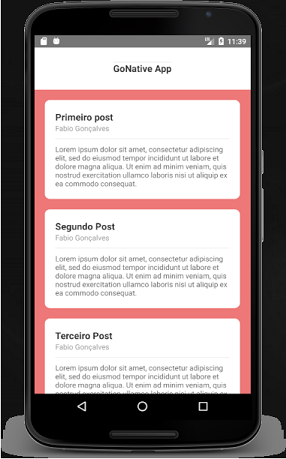
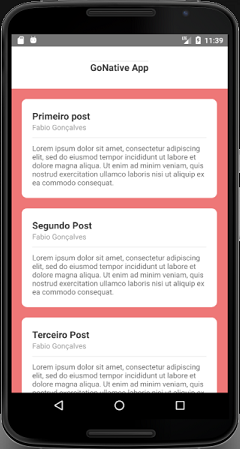
Acertos e readme.me

diff --git a/readme.md b/readme.md
@@ -1,0 +1,8 @@
+# Desafio Módulo 01 - GoNative
+
+![](https://github.com/fabioindaiatuba/gonative-desafio-01/raw/master/telas/tela1.png)
+
+###Funções
+
+- Desenvolvimento de layouts usando Flexbox.
+- Configurações Reactotron, ESLint e Babel Module Resolver.
